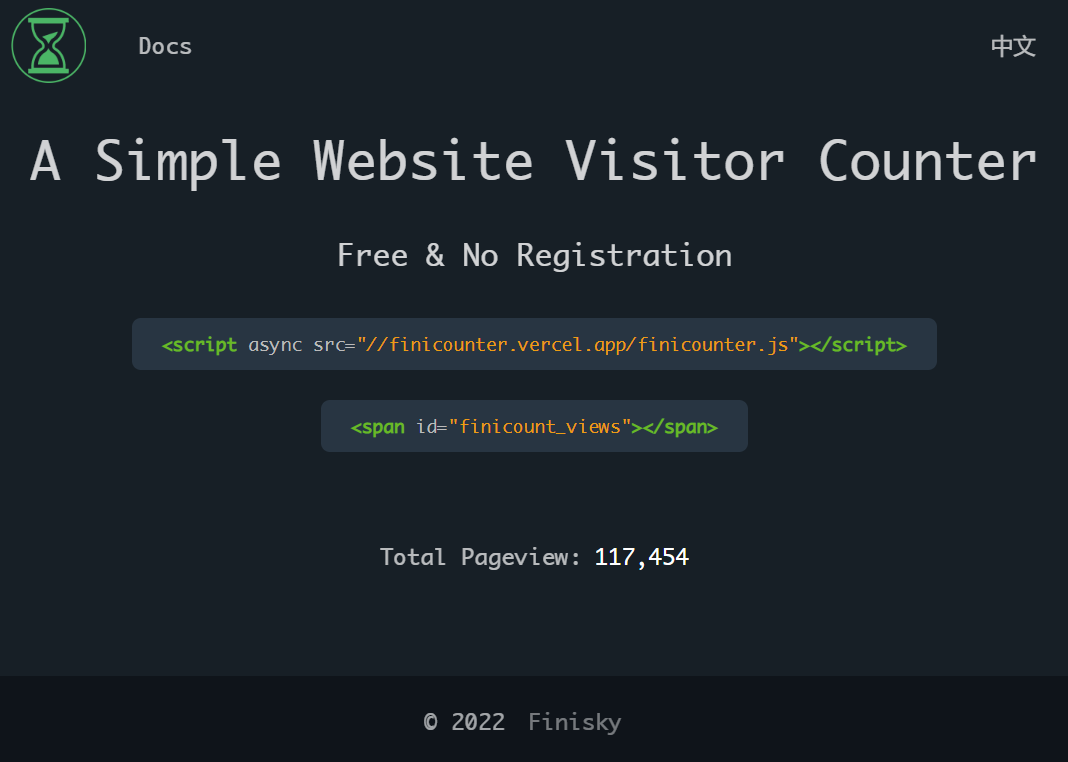
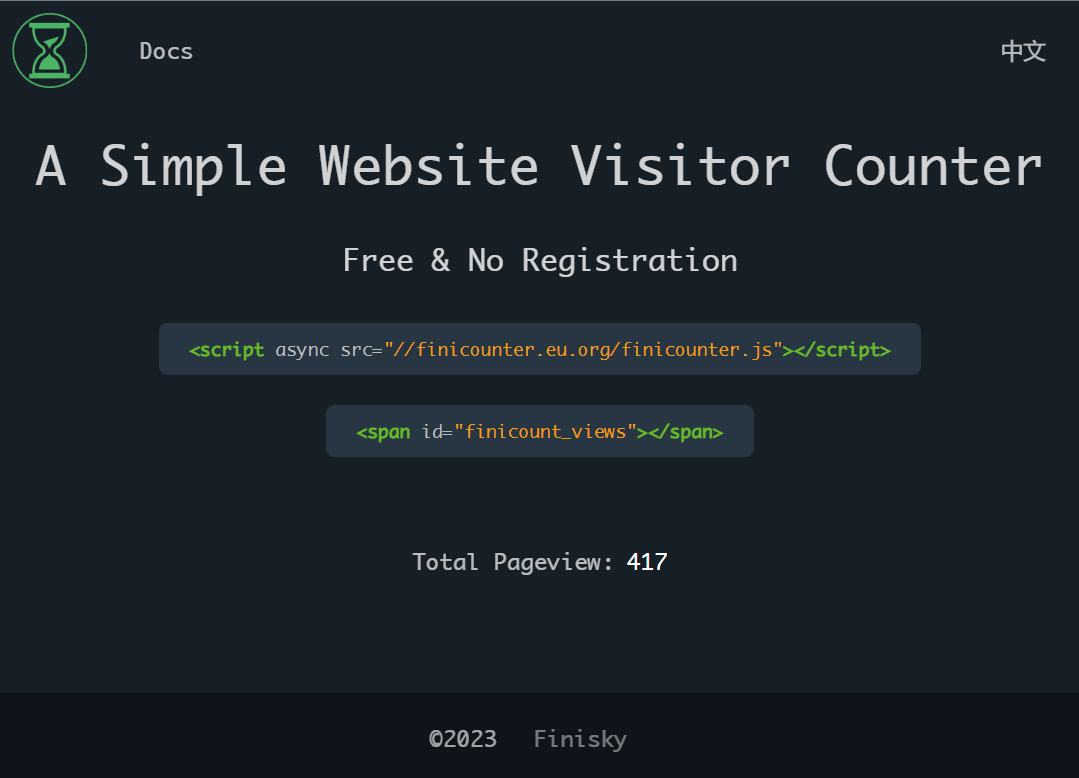
Update domain name to finicounter.eu.org

diff --git a/docs/index.html b/docs/index.html
@@ -9,16 +9,16 @@
       <meta name="keywords" content="Hexo博客访问量统计,Jekyll博客计数器,GitHub Pages博客访问量统计,网站阅读量统计,静态网页计数,静态网站计数,静态博客计数,网站计数器,网站计数插件,博客计数器,WordPress计数插件">
       <meta name="description" content="FiniCounter, 一个极简的网站访客计数器">
       <meta name="author" content="finisky">
-      <link rel="canonical" href="https://finicounter.vercel.app/">
+      <link rel="canonical" href="https://finicounter.eu.org/">
       <link rel="icon" href="./logo.png">
       <meta property="og:title" content="FiniCounter - 极简网站访客计数器">
       <meta property="og:description" content="FiniCounter, 一个极简的网站访客计数器">
       <meta property="og:type" content="website">
-      <meta property="og:url" content="https://finicounter.vercel.app/">
+      <meta property="og:url" content="https://finicounter.eu.org/">
       <meta property="og:image" content="">
       <meta property="og:site_name" content="FiniCounter">
       <link rel="stylesheet" href="./main.css">
-      <script async src="//finicounter.vercel.app/finicounter.js"></script>
+      <script async src="//finicounter.eu.org/finicounter.js"></script>
    </head>
    <!-- Google tag (gtag.js) -->
    <script async src="https://www.googletagmanager.com/gtag/js?id=G-BLH9FP221R"></script>
@@ -49,7 +49,7 @@
             <h3 class="banner-secondary">免注册，免费使用</h3>
             <div class="banner-start">
                <span class="codeblock">
-               <span style="color: #6ab825; font-weight: bold">&lt;script&nbsp;</span><span style="color: #bbbbbb">async</span> <span style="color: #bbbbbb">src=</span><span style="color: #ed9d13">"//finicounter.vercel.app/finicounter.js"</span><span style="color: #6ab825; font-weight: bold">&gt;&lt;/script&gt;</span>
+               <span style="color: #6ab825; font-weight: bold">&lt;script&nbsp;</span><span style="color: #bbbbbb">async</span> <span style="color: #bbbbbb">src=</span><span style="color: #ed9d13">"//finicounter.eu.org/finicounter.js"</span><span style="color: #6ab825; font-weight: bold">&gt;&lt;/script&gt;</span>
                </span>
             </div>
             <div class="banner-start">
@@ -65,7 +65,7 @@
       <footer id="footer">
          <div class="inner">
             <div id="footer-copyright">
-               <span>© 2022<a href="https://finisky.github.io/" class="main-nav-link">Finisky</a></span>
+               <span> &copy;<span id="copyright"><script>document.getElementById('copyright').appendChild(document.createTextNode(new Date().getFullYear()))</script></span> <a href="https://finisky.eu.org/" class="main-nav-link">Finisky</a></span>
             </div>
          </div>
       </footer>

diff --git a/docs/en.html b/docs/en.html
@@ -9,16 +9,16 @@
       <meta name="keywords" content="Hexo Visitor Counter,Jekyll Website Counter,GitHub Pages View Count,Website Page View Count,Static Website View Count,Serverless API,Website Vistor Count,Website Vistor Count Plugin,Blog Pageview Plugin,WordPress Visitor Plugin">
       <meta name="description" content="FiniCounter, a Simple Website Visitor Counter">
       <meta name="author" content="finisky">
-      <link rel="canonical" href="https://finicounter.vercel.app/">
+      <link rel="canonical" href="https://finicounter.eu.org/">
       <link rel="icon" href="./logo.png">
       <meta property="og:title" content="FiniCounter: Simple Website Visitor Counter">
       <meta property="og:description" content="FiniCounter, a Simple Website Visitor Counter">
       <meta property="og:type" content="website">
-      <meta property="og:url" content="https://finicounter.vercel.app/en">
+      <meta property="og:url" content="https://finicounter.eu.org/en">
       <meta property="og:image" content="">
       <meta property="og:site_name" content="FiniCounter">
       <link rel="stylesheet" href="./main.css">
-      <script async src="//finicounter.vercel.app/finicounter.js"></script>
+      <script async src="//finicounter.eu.org/finicounter.js"></script>
    </head>
    <!-- Google tag (gtag.js) -->
    <script async src="https://www.googletagmanager.com/gtag/js?id=G-BLH9FP221R"></script>
@@ -49,7 +49,7 @@
             <h3 class="banner-secondary">Free & No Registration</h3>
             <div class="banner-start">
                <span class="codeblock">
-               <span style="color: #6ab825; font-weight: bold">&lt;script&nbsp;</span><span style="color: #bbbbbb">async</span> <span style="color: #bbbbbb">src=</span><span style="color: #ed9d13">"//finicounter.vercel.app/finicounter.js"</span><span style="color: #6ab825; font-weight: bold">&gt;&lt;/script&gt;</span>
+               <span style="color: #6ab825; font-weight: bold">&lt;script&nbsp;</span><span style="color: #bbbbbb">async</span> <span style="color: #bbbbbb">src=</span><span style="color: #ed9d13">"//finicounter.eu.org/finicounter.js"</span><span style="color: #6ab825; font-weight: bold">&gt;&lt;/script&gt;</span>
                </span>
             </div>
             <div class="banner-start">
@@ -65,7 +65,7 @@
       <footer id="footer">
          <div class="inner">
             <div id="footer-copyright">
-               <span>© 2022<a href="https://finisky.github.io/" class="main-nav-link">Finisky</a></span>
+               <span> &copy;<span id="copyright"><script>document.getElementById('copyright').appendChild(document.createTextNode(new Date().getFullYear()))</script></span> <a href="https://finisky.eu.org/" class="main-nav-link">Finisky</a></span>
             </div>
          </div>
       </footer>

diff --git a/docs/finicounter.js b/docs/finicounter.js
@@ -1,5 +1,5 @@
 async function getViews() {
-    let url = "https://finicounter.vercel.app/counter?host=" + window.location.hostname;
+    let url = "https://finicounter.eu.org/counter?host=" + window.location.hostname;
     try {
         let res = await fetch(url);
         return await res.json();

diff --git a/README.en.md b/README.en.md
@@ -1,12 +1,12 @@
 [[中文版](https://github.com/finisky/finicounter#readme)]
 
-# <img src="https://finicounter.vercel.app/logo.png" title="FiniCounter" width="64" align="center"> FiniCounter
+# <img src="https://finicounter.eu.org/logo.png" title="FiniCounter" width="64" align="center"> FiniCounter
 
-[Demo](https://finicounter.vercel.app/en)
+[Demo](https://finicounter.eu.org/en)
 
-[Finisky Garden](https://finisky.github.io/finicounter/en)
+[Finisky Garden](https://finisky.eu.org/finicounter/en)
 
-![FiniCounter Demo](https://cdn.jsdelivr.net/gh/finisky/finicounter/finicounterdemo.en.png)
+![FiniCounter Demo](https://raw.githubusercontent.com/finisky/finicounter/master/finicounterdemo.en.png)
 
 ## Introduction
 
@@ -24,7 +24,7 @@ FiniCounter is:
 1. Add the following script to your websites:
 
 ```javascript
-<script async src="//finicounter.vercel.app/finicounter.js"></script>
+<script async src="//finicounter.eu.org/finicounter.js"></script>
 ```
 
 2. Add a container with id `finicount_views` to show the view counts:
@@ -37,7 +37,7 @@ You are done! The view count will be shown on your site like this `12,345,678`.
 
 **Notice**: the script should be added to **every** pages of your website. Otherwise, the page view counter might missing counts.
 
-It is also welcome to directly use the counter API `https://finicounter.vercel.app/counter?host=xxx.com` and customize the javascript yourself.
+It is also welcome to directly use the counter API `https://finicounter.eu.org/counter?host=xxx.com` and customize the javascript yourself.
 
 **Each counter will be automatically deleted if not accessed for more than 3 months.**
 
@@ -51,7 +51,7 @@ Just add a new js file `totalpageview.js` in the Hexo root folder `scripts/`:
 
 ```javascript
 hexo.extend.filter.register('theme_inject', function(injects) {
-  injects.footer.raw('totalpageview', '<div><span><a href="https://finicounter.vercel.app/" target="_blank">Total Pageview:</a></span><span id="finicount_views" style="display:inline;padding-left:5px;"></span><div> <script async src="//finicounter.vercel.app/finicounter.js"></script>', {}, {cache: false});
+  injects.footer.raw('totalpageview', '<div><span><a href="https://finicounter.eu.org/" target="_blank">Total Pageview:</a></span><span id="finicount_views" style="display:inline;padding-left:5px;"></span><div> <script async src="//finicounter.eu.org/finicounter.js"></script>', {}, {cache: false});
 });
 ```
 
@@ -60,5 +60,5 @@ Leave Hexo NexT Plugin as future work :-) .
 
 ## Known Issues
 
-* Reset Counter: if you want to delete or reset the counter, send me an email (can be found [here](https://finisky.github.io/links/))
+* Reset Counter: if you want to delete or reset the counter, send me an email (can be found [here](https://finisky.eu.org/links/))
 * Counter Initialization (todo): each key can be initialized one time within 3 days after creation

diff --git a/README.md b/README.md
@@ -1,12 +1,12 @@
 [[English](https://github.com/finisky/finicounter/blob/master/README.en.md)]
 
-# <img src="https://finicounter.vercel.app/logo.png" title="FiniCounter" width="64" align="center"> FiniCounter
+# <img src="https://finicounter.eu.org/logo.png" title="FiniCounter" width="64" align="center"> FiniCounter
 
-[Demo网站](https://finicounter.vercel.app/)
+[Demo网站](https://finicounter.eu.org/)
 
-[Finisky Garden](https://finisky.github.io/finicounter)
+[Finisky Garden](https://finisky.eu.org/finicounter)
 
-![FiniCounter Demo](https://cdn.jsdelivr.net/gh/finisky/finicounter/finicounterdemo.png)
+![FiniCounter Demo](https://raw.githubusercontent.com/finisky/finicounter/master/finicounterdemo.png)
 
 ## 简介
 
@@ -24,7 +24,7 @@ FiniCounter:
 1. 添加一行javascript到网页：
 
 ```javascript
-<script async src="//finicounter.vercel.app/finicounter.js"></script>
+<script async src="//finicounter.eu.org/finicounter.js"></script>
 ```
 
 2. 添加任意容器来显示访客数，id 必须为 `finicount_views` :
@@ -37,7 +37,7 @@ FiniCounter:
 
 **注意**: 上面的javascript需要在网站的**每个页面**都添加 (无需都显示)，否则计数器可能会丢失这些未添加页面的访问计数。
 
-如有必要，也可直接使用这里的计数API `https://finicounter.vercel.app/counter?host=xxx.com`，自行定制对应的javascript进行计数展示。
+如有必要，也可直接使用这里的计数API `https://finicounter.eu.org/counter?host=xxx.com`，自行定制对应的javascript进行计数展示。
 
 **如果某网站计数三个月没有修改，则计数会被自动清除。**
 
@@ -51,7 +51,7 @@ FiniCounter:
 
 ```javascript
 hexo.extend.filter.register('theme_inject', function(injects) {
-  injects.footer.raw('totalpageview', '<div><span><a href="https://finicounter.vercel.app/" target="_blank">Total Pageview:</a></span><span id="finicount_views" style="display:inline;padding-left:5px;"></span><div> <script async src="//finicounter.vercel.app/finicounter.js"></script>', {}, {cache: false});
+  injects.footer.raw('totalpageview', '<div><span><a href="https://finicounter.eu.org/" target="_blank">Total Pageview:</a></span><span id="finicount_views" style="display:inline;padding-left:5px;"></span><div> <script async src="//finicounter.eu.org/finicounter.js"></script>', {}, {cache: false});
 });
 ```
 
@@ -60,5 +60,5 @@ hexo.extend.filter.register('theme_inject', function(injects) {
 
 ## 已知问题
 
-* 重置计数器：如希望删除或重置计数器，可在这里提 Issue 或发邮件 (邮件在 [这里](https://finisky.github.io/links/))。
+* 重置计数器：如希望删除或重置计数器，可在这里提 Issue 或发邮件 (邮件在 [这里](https://finisky.eu.org/links/))。
 * 初始化计数器 (todo)：每个key可在第一次被创建后的3天内初始化一次。
